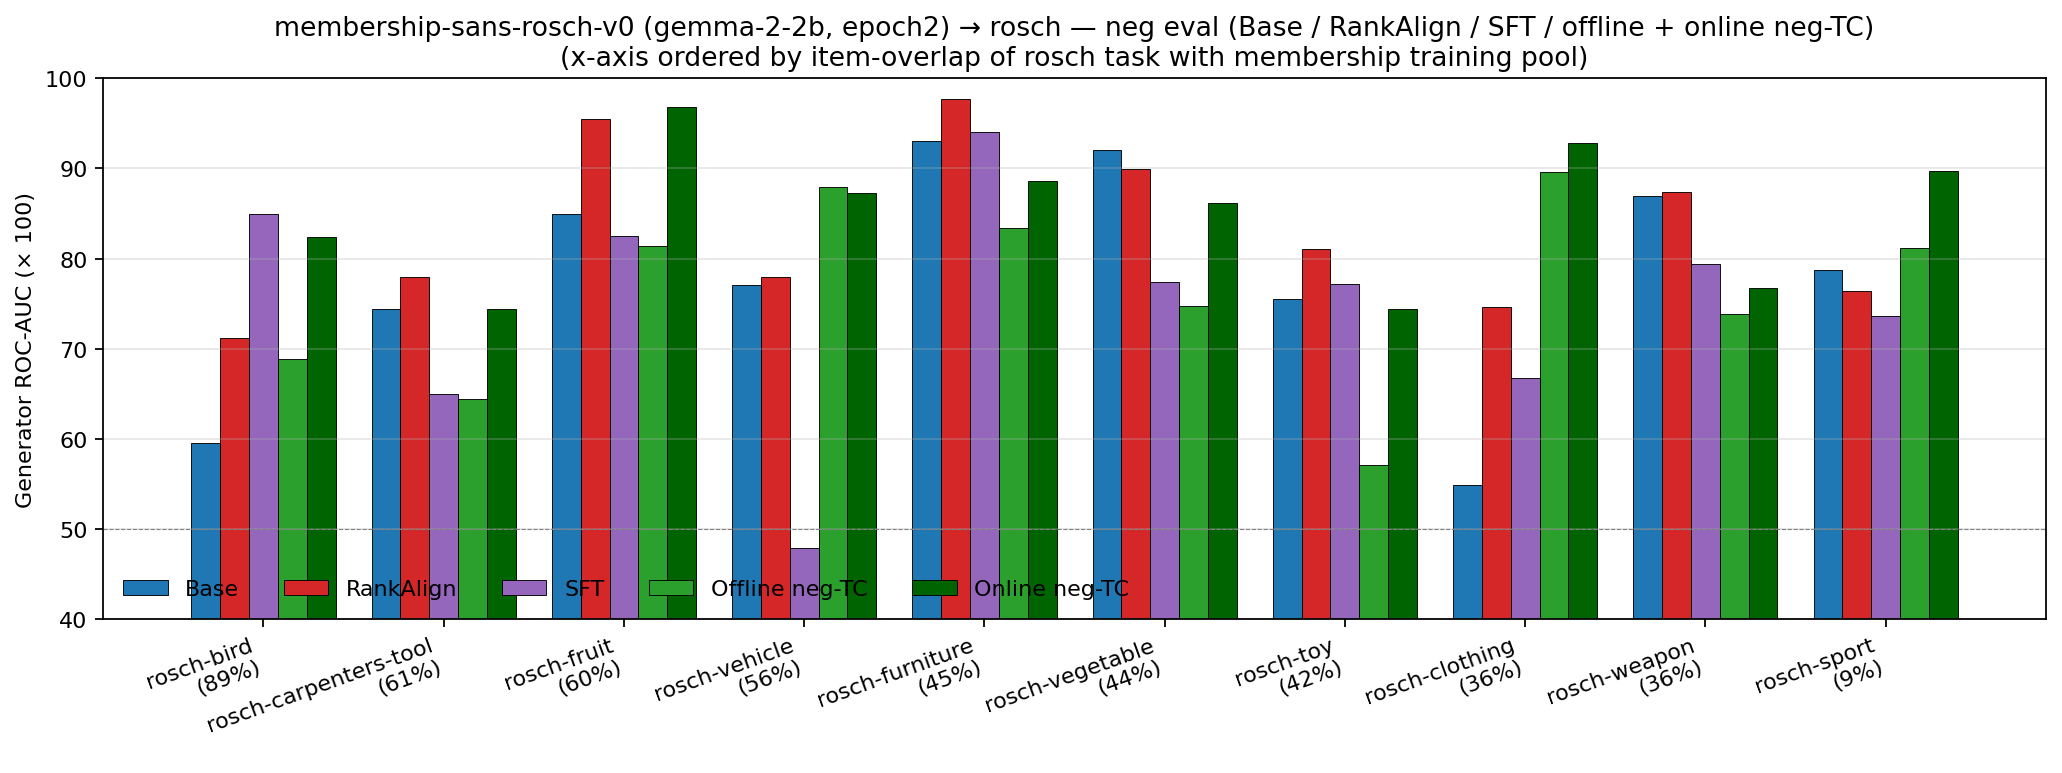
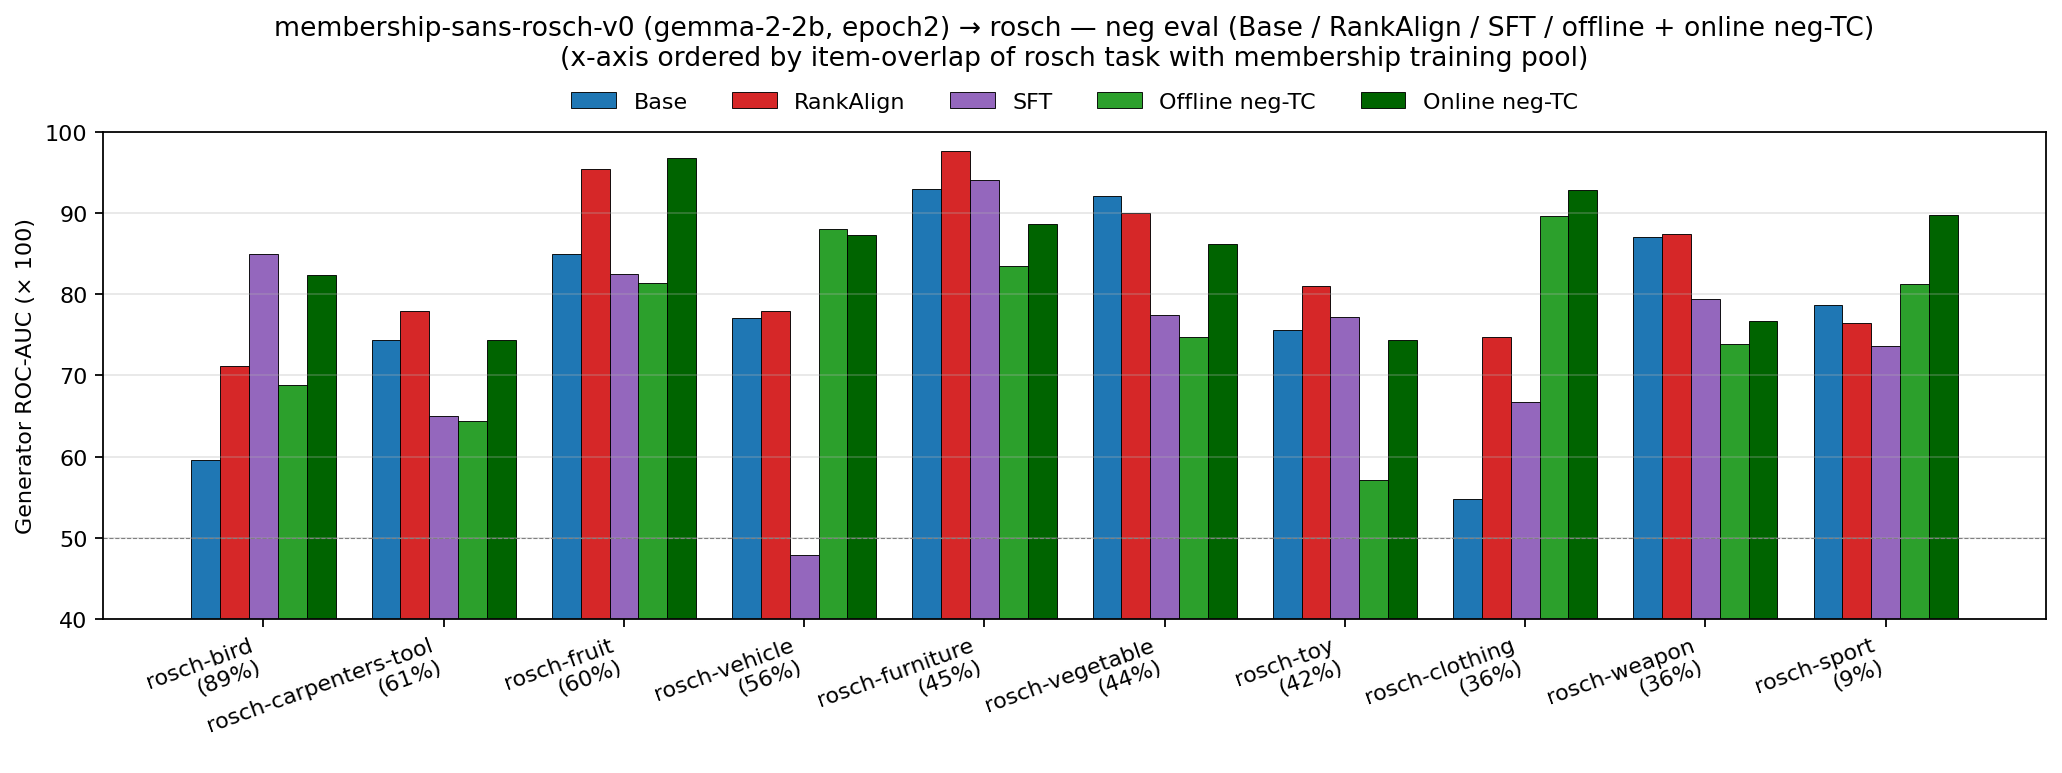
membership->rosch bar plots: move legend above axes (below title)

diff --git a/scripts/plot_membership_to_rosch_per_task.py b/scripts/plot_membership_to_rosch_per_task.py
@@ -168,7 +168,8 @@ def make_plot(long: pd.DataFrame, plot_config, out_path: Path,
     ax.set_title(
         f"membership-sans-rosch-v0 ({MODEL}, epoch{EPOCH}) → rosch — "
         f"{title_suffix}\n(x-axis ordered by item-overlap of rosch task "
-        f"with membership training pool)"
+        f"with membership training pool)",
+        pad=30,
     )
     ax.set_xticks(x_centers)
     ax.set_xticklabels(
@@ -177,7 +178,8 @@ def make_plot(long: pd.DataFrame, plot_config, out_path: Path,
     )
     ax.set_ylim(40, 100)
     ax.axhline(50, color="gray", linewidth=0.5, linestyle="--")
-    ax.legend(loc="lower left", ncol=n_bars, frameon=False)
+    ax.legend(loc="lower center", bbox_to_anchor=(0.5, 1.0),
+              ncol=n_bars, frameon=False)
     ax.grid(axis="y", alpha=0.3)
 
     fig.tight_layout()
